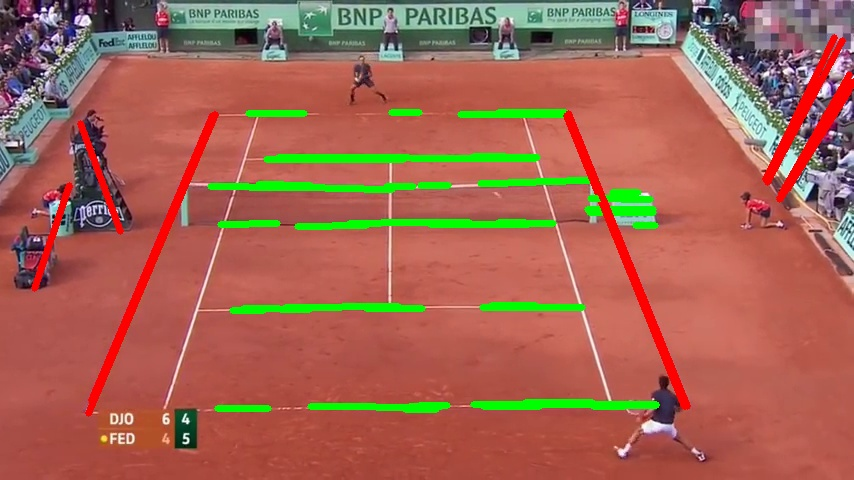
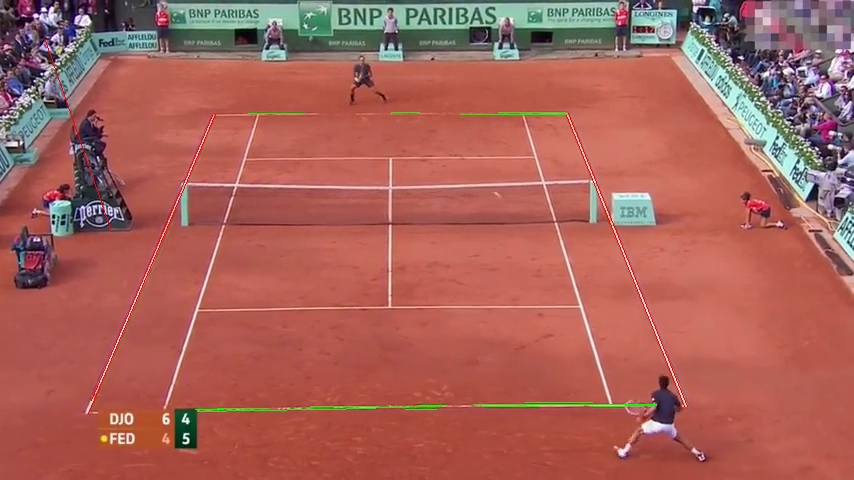
remove old picture

diff --git a/_posts/2022-09-22-court-detection-2.md b/_posts/2022-09-22-court-detection-2.md
@@ -1,23 +1,18 @@
 ---
 layout: post
-title:  "LIVEBLOG [Post 5] Court Detection [Part 2]"
+title:  "LIVEBLOG [Post 7] Court Detection [Part 2]"
 date:   2022-09-20 12:52:05 -0400
 ---
-<h2>LIVEBLOG [Post 5] Court Detection [Part 2]</h2>
+<h2>LIVEBLOG [Post 7] Court Detection [Part 2]</h2>
 <p>
 In the last Court Detection post, I wrote vaguely about detecting the tennis court using a set of heuristics based on Hough lines. I'm going to expand on it here, introduce the first iteration of this approach, and visualize the outcome on 25 randommly selected frames featuring gameplay.
-
+</p>
+<p>
 <b>Jeremie's set of heuristics for court detection</b>
 1. Find the Hough lines 
 2. Identify the lengthwise court lines (doubles and singles borders) by filtering the Hough lines.
     a. with absolute slope between 1.5 and 3.
     b. having length over 100 pixels.
-
-</p>
-<p>
-<div style="text-align: center"> 
-<img src="https://spazznolo.github.io/figs/hough-line-ex.png" width="60%" length="150"/>
-</div>
 </p>
 <p>
 <div style="text-align: center"> 
